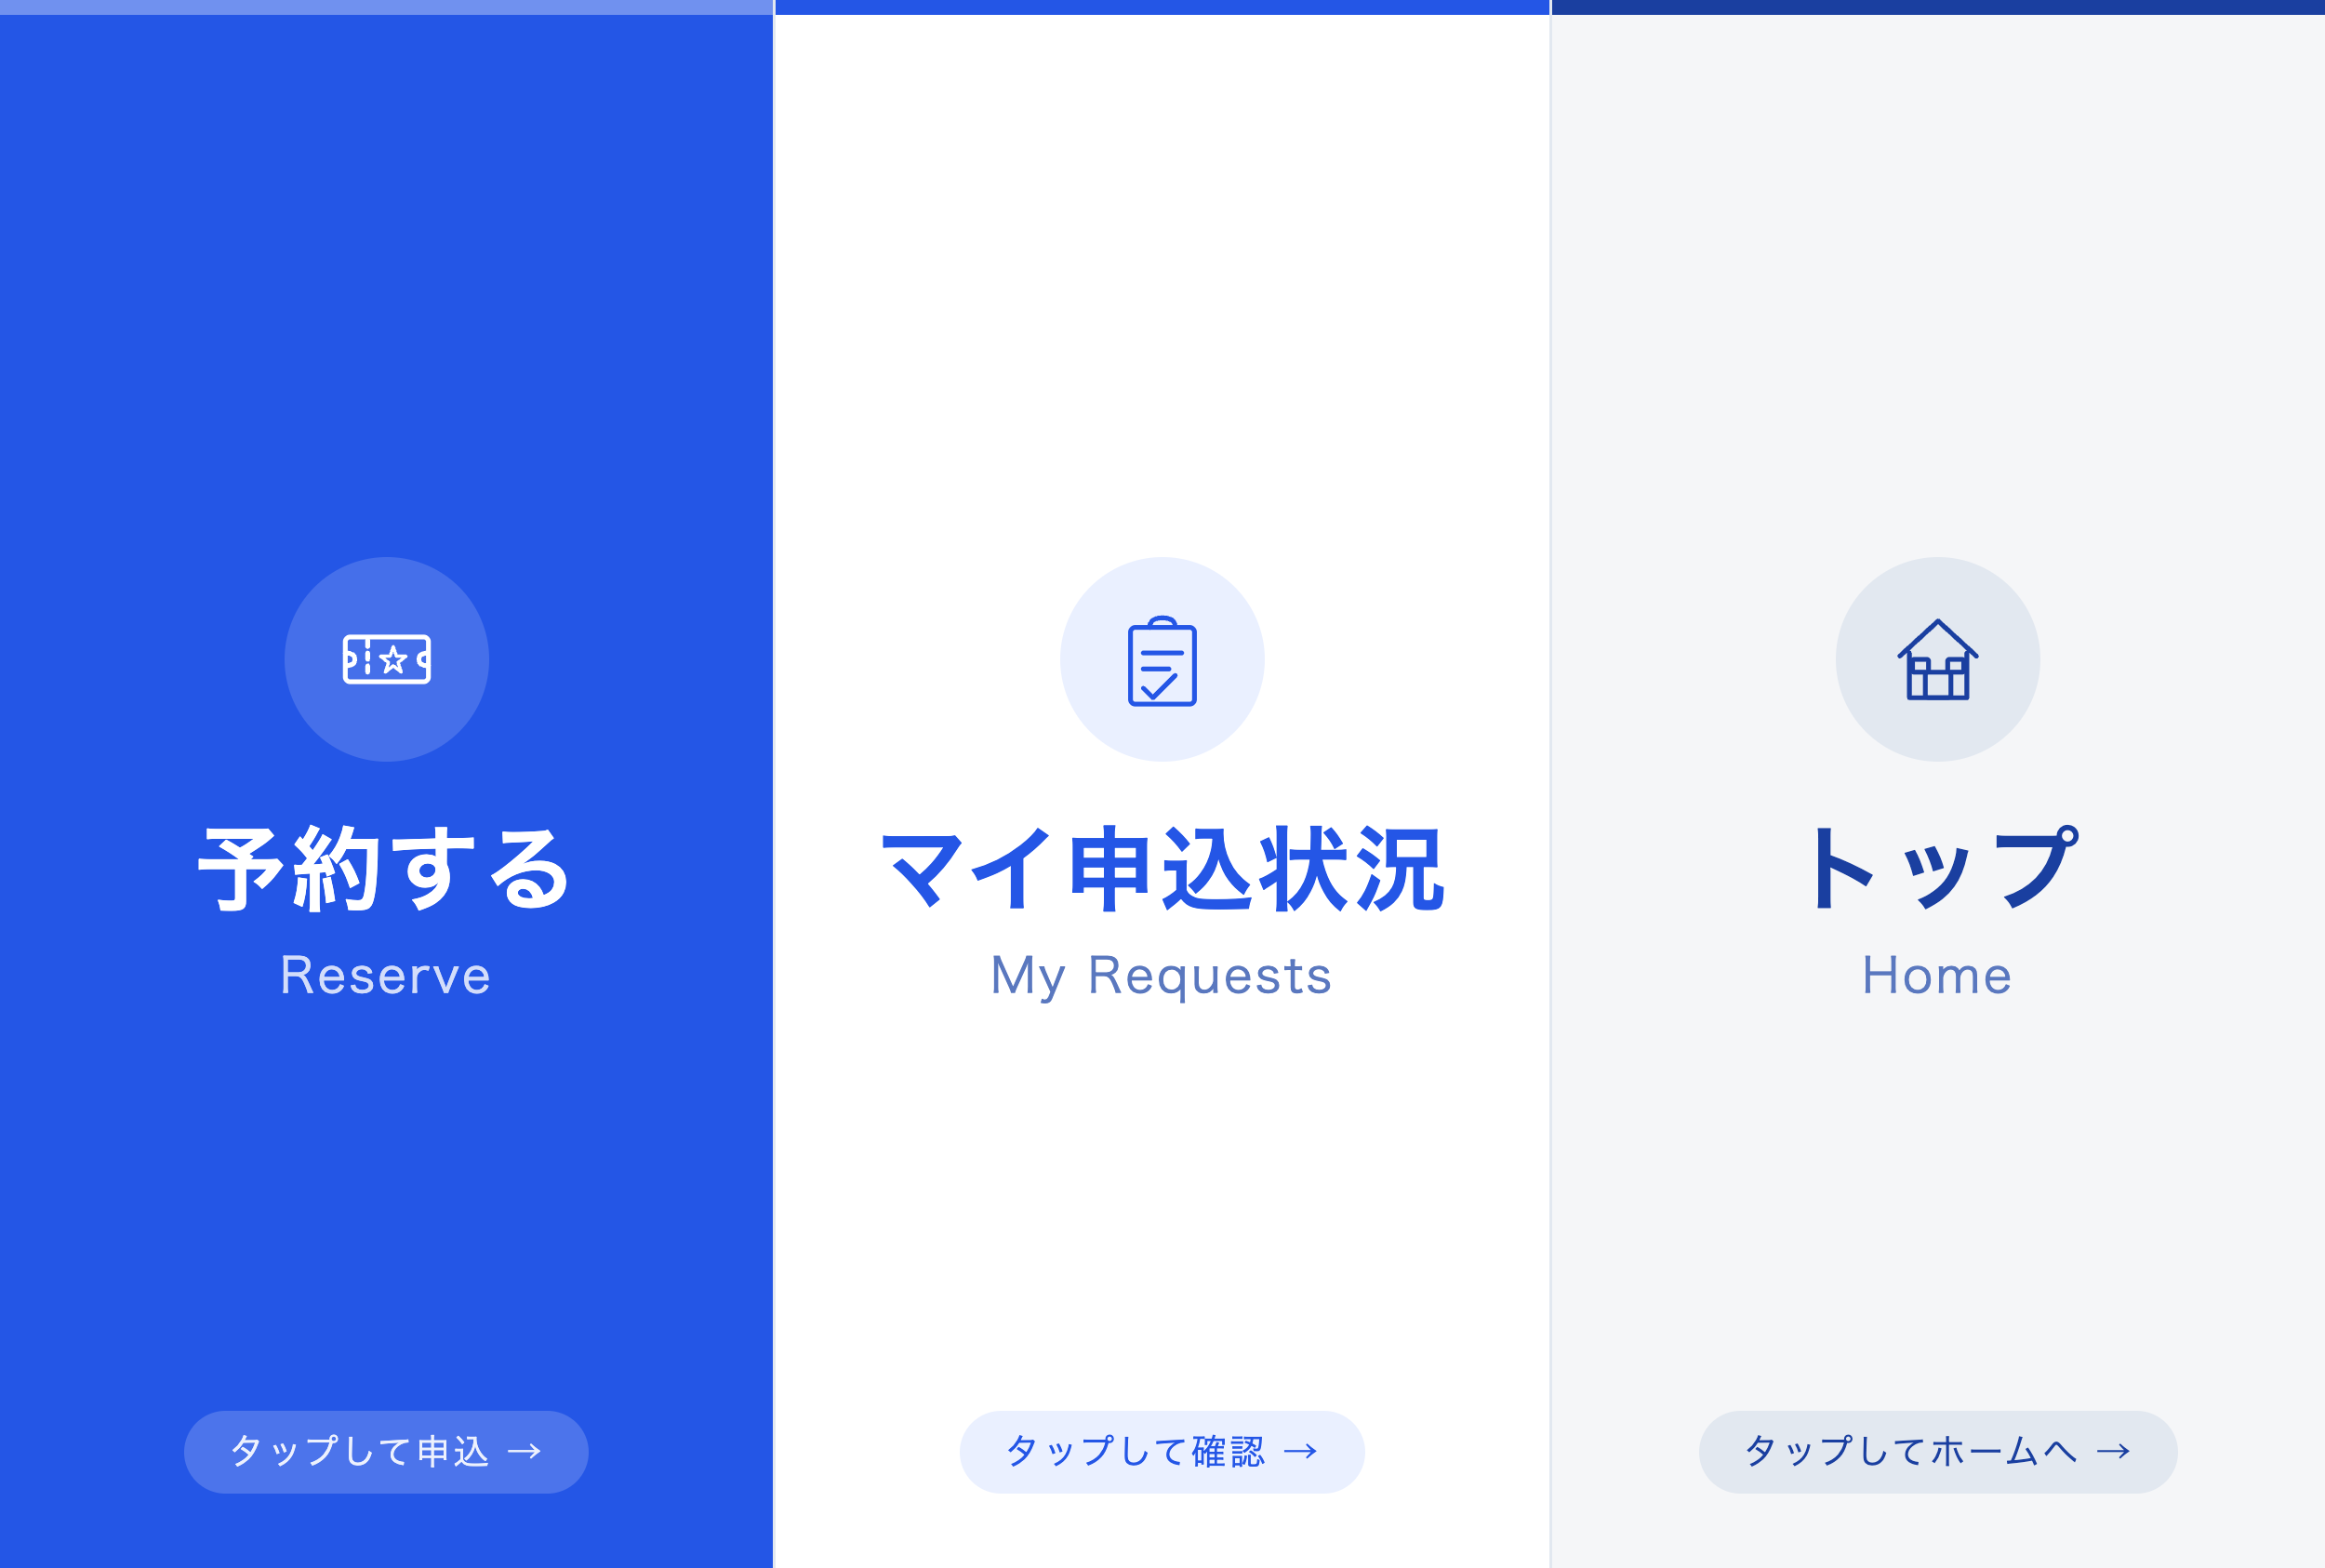
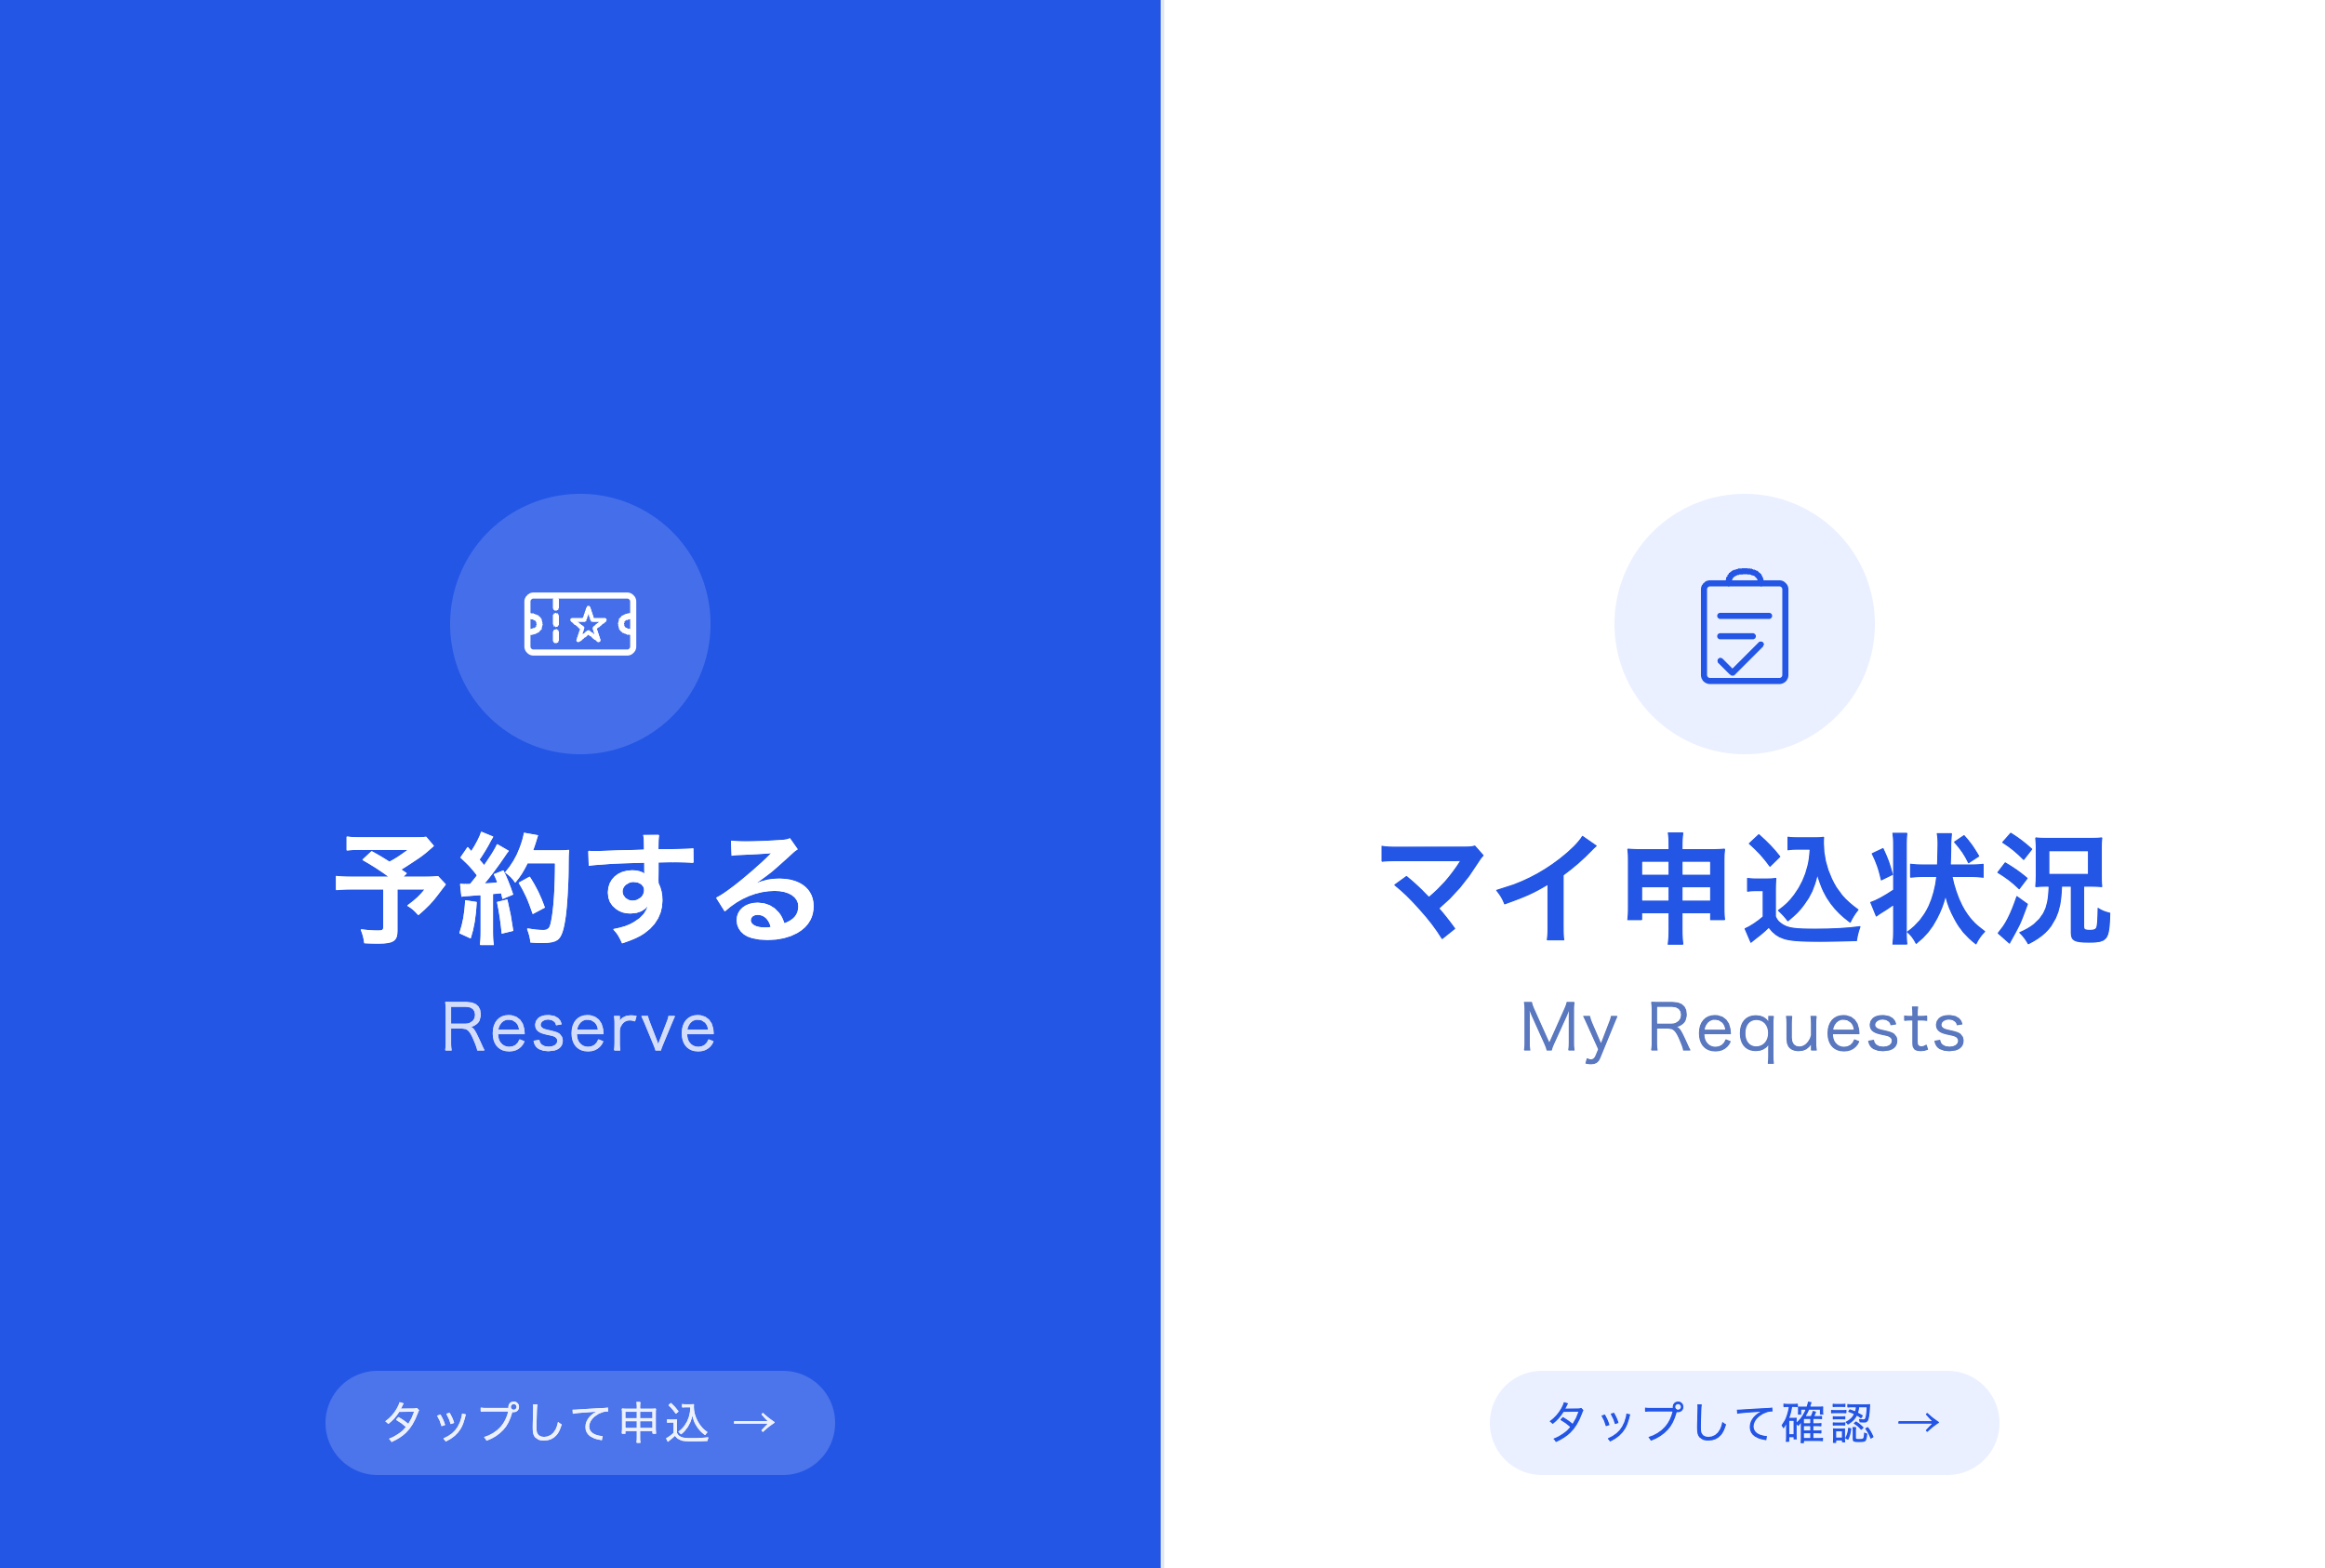
feat: LINEリッチメニュー 2ボタン化 — トップ削除・レイアウト最適化
動線絞込: 「予約する」と「トップ」が家族にとって役割被りのため
2ボタンに統一（予約する ← 全機能の起点 / マイ申込状況 ← 進捗確認）

変更:
- 3ボタン → 2ボタン（左右分割・各50%幅）
- メインラベル 100px → 130px / サブラベル 52px → 68px
- アイコン: 220px → 280px
- タップヒント: 80px → 100px
- size 維持: 2500×1686 (full)

richMenuId: richmenu-92aabe1d931716e6d77dce7b775c8610
画像サイズ: 102.6 KB

Changed region(s): [[0.0, 0.0, 1.0, 1.0], [0.7176, 0.3393, 0.9048, 0.4935], [0.6552, 0.8944, 0.936, 0.9561]]

diff --git a/assets/richmenu-gen.html b/assets/richmenu-gen.html
@@ -27,75 +27,69 @@
     gap: 0;
   }
   .btn + .btn {
-    border-left: 3px solid #e2e8f0;
+    border-left: 4px solid #e2e8f0;
   }
+
   /* ボタン1: 予約する — プライマリブルー */
   .btn-reserve {
     background: #2456e6;
   }
+
   /* ボタン2: マイ申込状況 — 白 */
   .btn-status {
     background: #ffffff;
   }
-  /* ボタン3: トップ — 薄グレー */
-  .btn-home {
-    background: #f5f6f8;
-  }
 
   /* ── アイコンエリア ── */
   .icon-wrap {
-    width: 220px;
-    height: 220px;
+    width: 280px;
+    height: 280px;
     border-radius: 50%;
     display: flex;
     align-items: center;
     justify-content: center;
-    margin-bottom: 60px;
+    margin-bottom: 80px;
   }
   .icon-wrap-reserve { background: rgba(255,255,255,0.15); }
   .icon-wrap-status  { background: #eaf0ff; }
-  .icon-wrap-home    { background: #e2e8f0; }
 
   /* ── SVG アイコン ── */
   .icon-svg {
-    width: 110px;
-    height: 110px;
+    width: 140px;
+    height: 140px;
   }
   .icon-svg-reserve { stroke: #ffffff; }
   .icon-svg-status  { stroke: #2456e6; }
-  .icon-svg-home    { stroke: #1a3fa0; }
 
-  /* ── メインラベル ── */
+  /* ── メインラベル（日本語） ── */
   .label {
-    font-size: 100px;
+    font-size: 130px;
     font-weight: 700;
     letter-spacing: 0.04em;
-    line-height: 1.1;
+    line-height: 1.0;
     text-align: center;
   }
   .label-reserve { color: #ffffff; }
   .label-status  { color: #2456e6; }
-  .label-home    { color: #1a3fa0; }
 
   /* ── サブラベル（英語） ── */
   .sublabel {
-    font-size: 52px;
+    font-size: 68px;
     font-weight: 500;
-    margin-top: 20px;
+    margin-top: 32px;
     text-align: center;
     letter-spacing: 0.06em;
   }
   .sublabel-reserve { color: rgba(255,255,255,0.80); }
   .sublabel-status  { color: #5a78bf; }
-  .sublabel-home    { color: #5a78bf; }
 
   /* ── タップヒント（底部） ── */
   .tap-hint {
     position: absolute;
-    bottom: 80px;
-    font-size: 38px;
+    bottom: 100px;
+    font-size: 48px;
     font-weight: 500;
-    padding: 16px 48px;
+    padding: 20px 60px;
     border-radius: 999px;
     letter-spacing: 0.08em;
   }
@@ -107,22 +101,6 @@
     background: #eaf0ff;
     color: #2456e6;
   }
-  .tap-hint-home {
-    background: #e2e8f0;
-    color: #1a3fa0;
-  }
-
-  /* ── 区切り線（上部カラーバー） ── */
-  .top-bar {
-    position: absolute;
-    top: 0;
-    left: 0;
-    right: 0;
-    height: 16px;
-  }
-  .top-bar-reserve { background: rgba(255,255,255,0.35); }
-  .top-bar-status  { background: #2456e6; }
-  .top-bar-home    { background: #1a3fa0; }
 </style>
 </head>
 <body>
@@ -130,7 +108,6 @@
 
   <!-- ボタン1: 予約する / Reserve -->
   <div class="btn btn-reserve">
-    <div class="top-bar top-bar-reserve"></div>
     <div class="icon-wrap icon-wrap-reserve">
       <!-- チケット(outline)アイコン -->
       <svg class="icon-svg icon-svg-reserve" viewBox="0 0 64 64" fill="none" stroke-width="3" stroke-linecap="round" stroke-linejoin="round">
@@ -153,7 +130,6 @@
 
   <!-- ボタン2: マイ申込状況 / My Requests -->
   <div class="btn btn-status">
-    <div class="top-bar top-bar-status"></div>
     <div class="icon-wrap icon-wrap-status">
       <!-- クリップボード+チェック(outline)アイコン -->
       <svg class="icon-svg icon-svg-status" viewBox="0 0 64 64" fill="none" stroke-width="3" stroke-linecap="round" stroke-linejoin="round">
@@ -172,29 +148,6 @@
     <div class="label label-status">マイ申込状況</div>
     <div class="sublabel sublabel-status">My Requests</div>
     <div class="tap-hint tap-hint-status">タップして確認 →</div>
-  </div>
-
-  <!-- ボタン3: トップ / Home -->
-  <div class="btn btn-home">
-    <div class="top-bar top-bar-home"></div>
-    <div class="icon-wrap icon-wrap-home">
-      <!-- ホーム(outline)アイコン -->
-      <svg class="icon-svg icon-svg-home" viewBox="0 0 64 64" fill="none" stroke-width="3" stroke-linecap="round" stroke-linejoin="round">
-        <!-- 屋根 -->
-        <polyline points="8,30 32,8 56,30"/>
-        <!-- 外壁 -->
-        <path d="M14 28 L14 56 L50 56 L50 28"/>
-        <!-- ドア -->
-        <rect x="24" y="40" width="16" height="16" rx="2"/>
-        <!-- 窓（左） -->
-        <rect x="16" y="32" width="10" height="8" rx="1"/>
-        <!-- 窓（右） -->
-        <rect x="38" y="32" width="10" height="8" rx="1"/>
-      </svg>
-    </div>
-    <div class="label label-home">トップ</div>
-    <div class="sublabel sublabel-home">Home</div>
-    <div class="tap-hint tap-hint-home">タップしてホームへ →</div>
   </div>
 
 </div>